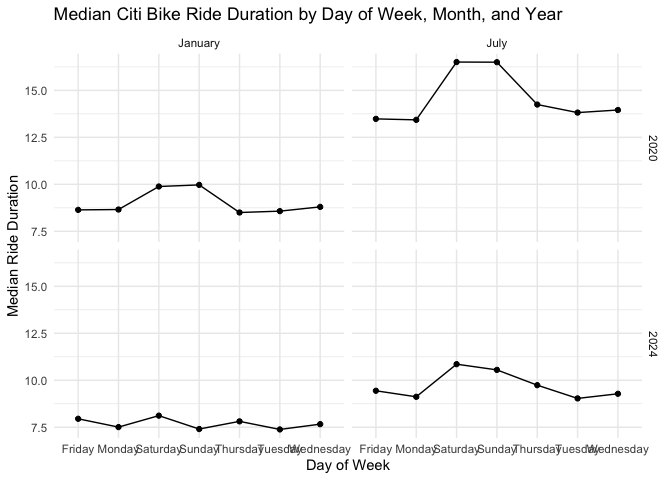
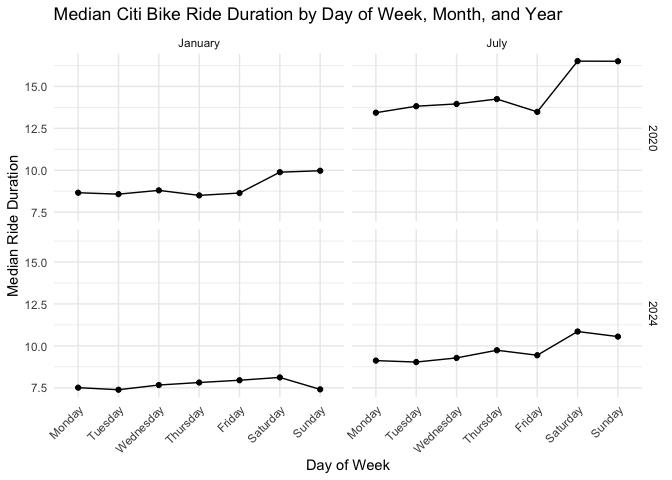
Making final minor adjustments.

diff --git a/p8105_hw3_mts2203.md b/p8105_hw3_mts2203.md
@@ -48,11 +48,19 @@ some measurements should be standardized to a full mm.
 # creating, cleaning and standardizing values in ny_noaa_df
 ny_noaa_df =
   ny_noaa |>
-  separate(date, into = c("year", "month", "day"), sep = "-") |>
-mutate(
-    tmax = as.numeric(tmax) / 10,
-    tmin = as.numeric(tmin) / 10,
-    prcp = as.numeric(prcp) / 10
+  separate(
+    date,
+    into = c("year", "month", "day"),
+    sep = "-"
+  ) |>
+  mutate(
+    across(
+      c(prcp, snow, snwd, tmax, tmin),
+      ~ na_if(as.numeric(.x), -9999)
+    ),
+    tmax = tmax / 10,
+    tmin = tmin / 10,
+    prcp = prcp / 10
   )
 
 # counting the most commonly observed values for snowfall
@@ -63,7 +71,7 @@ ny_noaa_df |>
 
     ## # A tibble: 10 × 2
     ##     snow       n
-    ##    <int>   <int>
+    ##    <dbl>   <int>
     ##  1     0 2008508
     ##  2    NA  381221
     ##  3    25   31022
@@ -397,7 +405,7 @@ high school” activity levels peak close to midday for both sexes before
 noticeably decreasing. Whereas for the other categories, activity
 plateaus in the late morning and afternoon before starkly decreasing as
 end-of-day approaches. Across all categories activity is at its absolute
-lowest around 250 minutes into, (or around 4-4:10am in), the morning.
+lowest around ~250 minutes into, (or around ~4:09am in), the morning.
 
 # Problem 3
 
@@ -526,6 +534,15 @@ Top 5 Most Popular Citi Bike Starting Stations, July 2024
 ``` r
 # plotting the median ride duration by day of week, month, and year
 nyc_citi_bike_df |>
+  mutate(
+    weekdays = factor(
+      weekdays,
+      levels = c(
+        "Monday", "Tuesday", "Wednesday",
+        "Thursday", "Friday", "Saturday", "Sunday"
+      )
+    )
+  ) |>
   group_by(year, month, weekdays) |>
   summarize(
     median_duration = median(duration, na.rm = TRUE),
@@ -542,18 +559,20 @@ nyc_citi_bike_df |>
     x = "Day of Week",
     y = "Median Ride Duration"
   ) +
-  theme_minimal()
+  theme_minimal() +
+  theme(axis.text.x = element_text(angle = 45, hjust = 1))
 ```
 
 ![](p8105_hw3_mts2203_files/figure-gfm/time_span_effects_on_median_ride_duration_plot-1.png)<!-- -->
 
 ## Commenting on Observations about Median Ride Duration by Timespan Plot
 
-The `nyc_citi_bike_df` plot shows that weekend ride duration is
-generally higher on average, July ride duration is higher than average,
-and 2020 ride duration is generally higher on average. Higher ride
-duration in July might reflect seasonal differences. Altogether, the
-highest ride duration is on weekends in July 2020.
+The `nyc_citi_bike_df` plot shows that median ride duration is generally
+longer on weekends than on weekdays. Median ride duration also tends to
+be higher in July than in January, potentially reflecting seasonal
+differences in riding behavior. Additionally, median ride duration
+appears generally higher in 2020 than in 2024. Overall, the longest
+median ride durations occur on weekends in July 2020.
 
 ## Making Figure of Month, Membership Status, and Bike Type on Ride Duration
 
